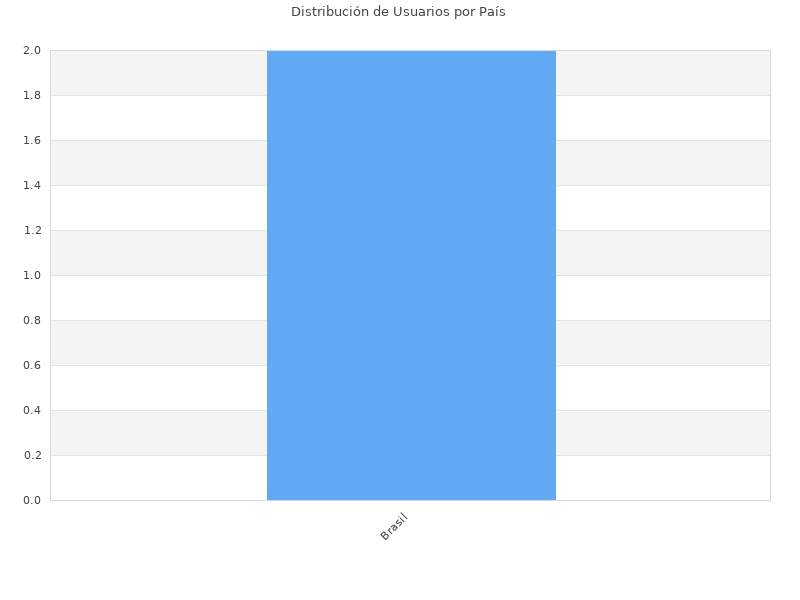
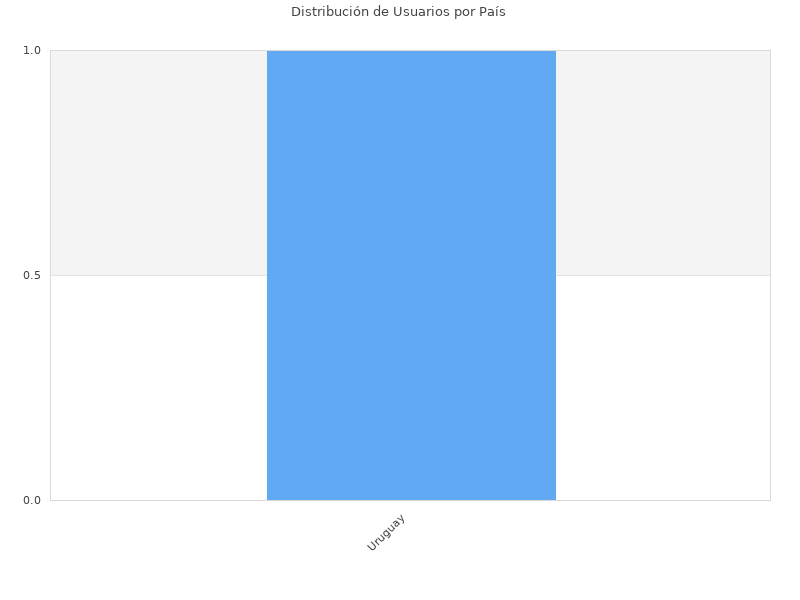
metiendo datos para generar pdfs admin(falta testear)

diff --git a/model/AdminModel.php b/model/AdminModel.php
@@ -67,19 +67,20 @@
         }
 
         public function getUsersByCountry($currentDate, $startDate) {
-            $stmt = $this->database->query("SELECT country, COUNT(*) AS usersCount
-                                            FROM usuario
-                                            WHERE userRole = 'player'
-                                            AND dateCreated BETWEEN :startDate AND :currentDate
-                                            GROUP BY country");
-            $stmt->execute(array(":startDate"=>$startDate, ":currentDate"=>$currentDate));
+            $stmt = $this->database->query("SELECT pais.nombre AS country, COUNT(*) AS usersCount
+                                    FROM usuario
+                                    INNER JOIN pais ON usuario.idPais = pais.id
+                                    WHERE usuario.userRole = 'player'
+                                    AND usuario.dateCreated BETWEEN :startDate AND :currentDate
+                                    GROUP BY pais.nombre");
+            $stmt->execute(array(":startDate" => $startDate, ":currentDate" => $currentDate));
             $result = $stmt->fetchAll(PDO::FETCH_ASSOC);
             return $result;
         }
-
         public function getUsersByGender($currentDate, $startDate) {
-            $stmt = $this->database->query("SELECT gender, COUNT(*) AS usersCount
+            $stmt = $this->database->query("SELECT genero.nombre AS gender, COUNT(*) AS usersCount
                                             FROM usuario
+                                            INNER JOIN genero ON usuario.idGenero = genero.id
                                             WHERE userRole = 'player'
                                             AND dateCreated BETWEEN :startDate AND :currentDate
                                             GROUP BY gender");

diff --git a/model/RegisterModel.php b/model/RegisterModel.php
@@ -62,7 +62,7 @@
             }
             if (empty($errors)) {
                 $stmt = $this->database->query("UPDATE usuario 
-                                                SET fullname=:fullname, yearOfBirth=:yearOfBirth, gender=:gender, country=:country, city=:city, email=:email, pass=:pass, username=:username, profilePicture=:profilePicture
+                                                SET fullname=:fullname, yearOfBirth=:yearOfBirth, idGenero=:gender, idPais=:country, city=:city, email=:email, pass=:pass, username=:username, profilePicture=:profilePicture
                                                 WHERE id = :id");
                 $stmt->execute(array("id" => $id, ":fullname" => $fullname, ":yearOfBirth" => $yearOfBirth, ":gender" => $gender, ":country" => $country, ":city" => $city, ":email" => $email, ":pass" => $pass, ":username" => $username, ":profilePicture" => $imgName));
             }

diff --git a/controller/AdminController.php b/controller/AdminController.php
@@ -101,4 +101,4 @@
 
     }
 
-?>
+
